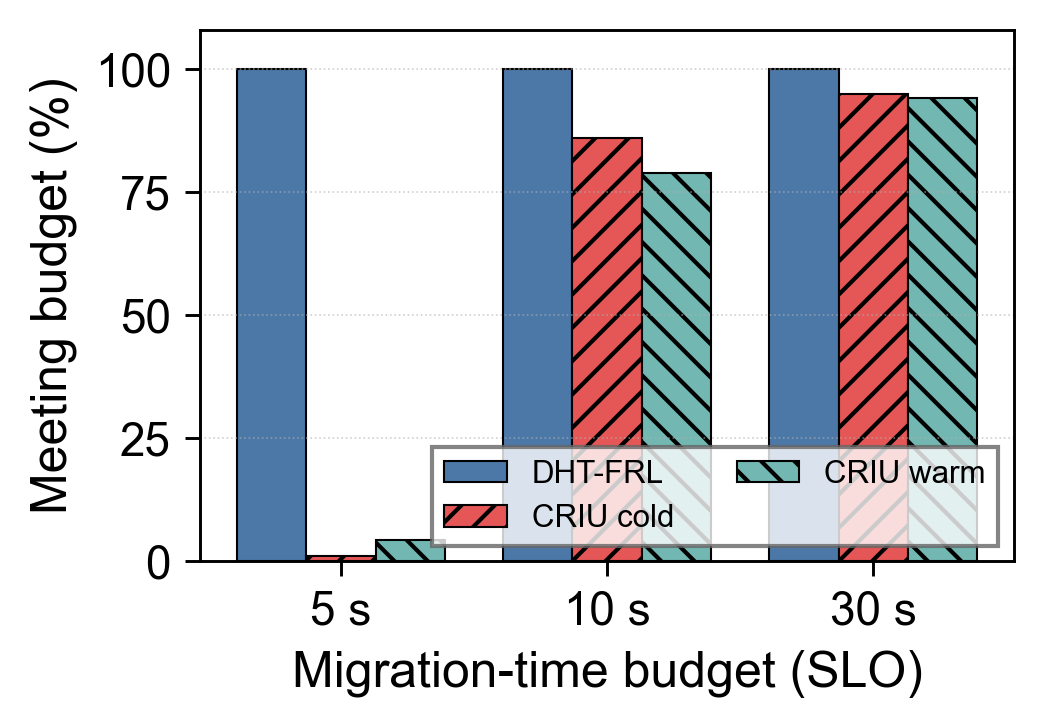
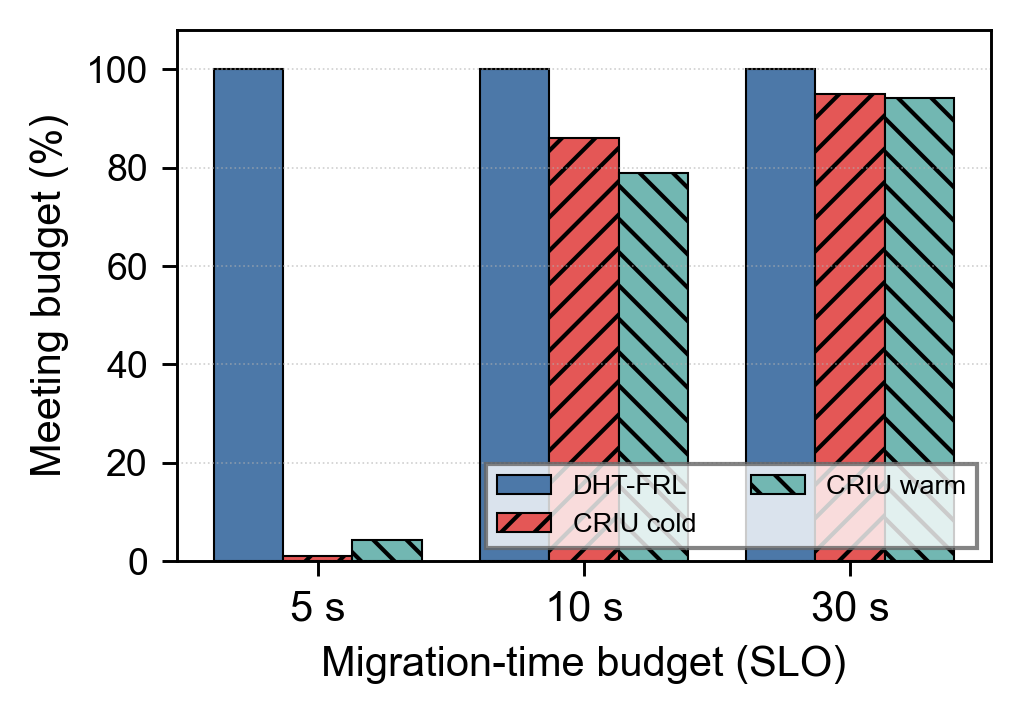
Update fig4 styling for improved readability and consistency

Changed region(s): [[0.0912, 0.0308, 0.9725, 0.9552], [0.0304, 0.0924, 0.0912, 0.7087], [0.9422, 0.0308, 0.9725, 0.0616]]

diff --git a/cluster/evaluation2/make_figs.py b/cluster/evaluation2/make_figs.py
@@ -218,14 +218,14 @@ def fig4():
     fig4_rc = {
         "font.family":     "sans-serif",
         "font.sans-serif": ["Arial", "Helvetica", "DejaVu Sans"],
-        "font.size":       12,
-        "axes.labelsize":  12,
-        "axes.titlesize":  12.5,
-        "xtick.labelsize": 11,
-        "ytick.labelsize": 11,
+        "font.size":       10,
+        "axes.labelsize":  10,
+        "axes.titlesize":  10.5,
+        "xtick.labelsize": 9,
+        "ytick.labelsize": 9,
         # Keep the legend at the original compact size so it tucks into the
         # bottom-right corner instead of overlapping the bars.
-        "legend.fontsize": 7.5,
+        "legend.fontsize": 6.5,
     }
     with plt.rc_context(fig4_rc):
         _fig4_body(conds, budgets_s, slo_colors)
@@ -254,6 +254,7 @@ def _fig4_body(conds, budgets_s, slo_colors):
 
     ax.set_xticks(x_base)
     ax.set_xticklabels([f"{b} s" for b in budgets_s])
+    ax.tick_params(axis="x", labelsize=10)
     ax.set_xlabel("Migration-time budget (SLO)")
     ax.set_ylabel("Meeting budget (%)")
     ax.set_ylim(0, 108)